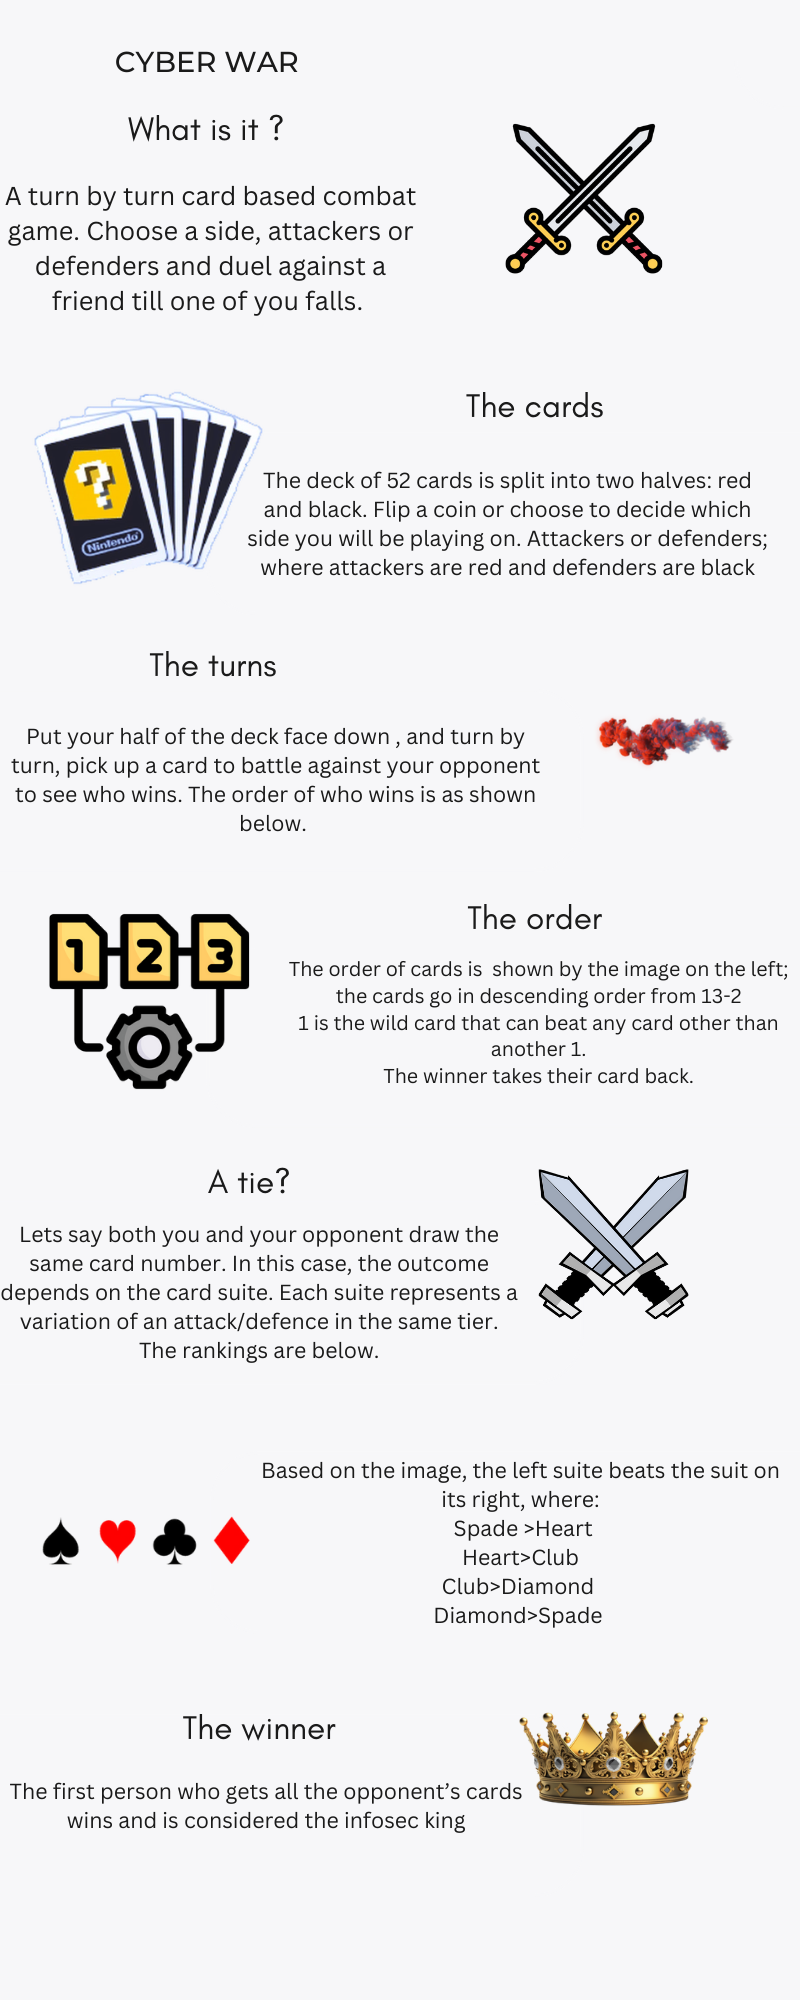
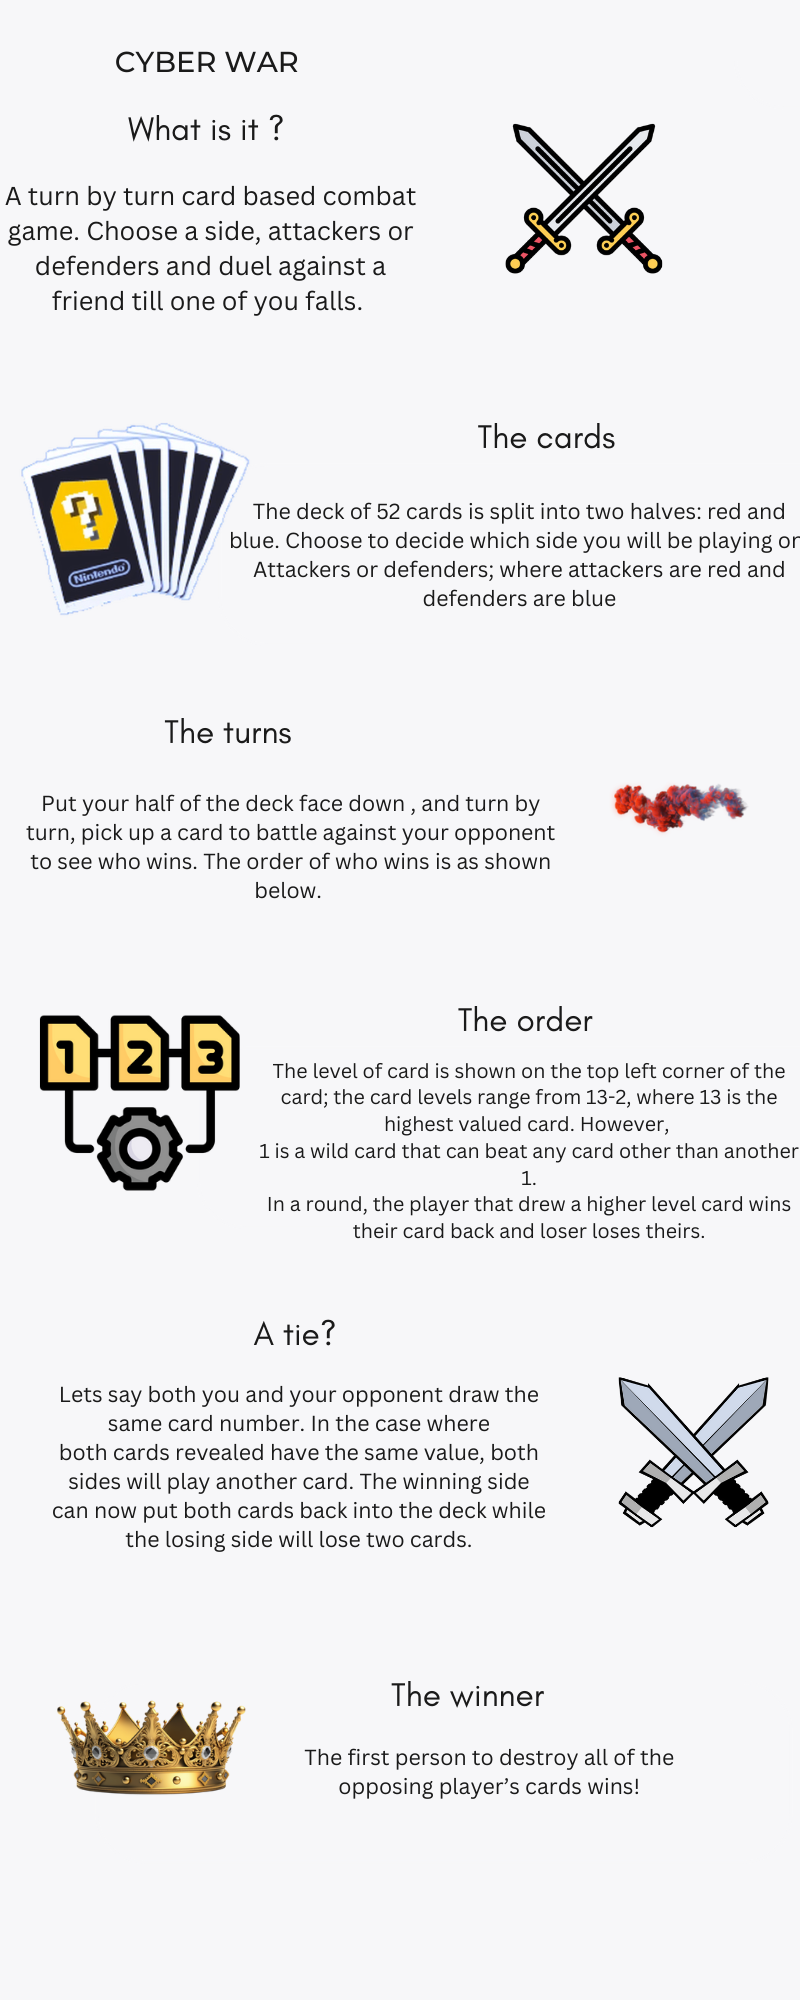
- changed game manual - fixed tie logic - added wild card logic

diff --git a/code/main.js b/code/main.js
@@ -45,8 +45,8 @@ class Deck {
     setupDeck() {
 
         if(this.type == Type.Attack){
-            this.cards.push(new Card("../card-image/1-a-nuke.jpg", 1, this.type, "Wins against all (master cyber-defender)"));
-            this.cards.push(new Card("../card-image/1-a-nuke.jpg", 1, this.type, "Wins against all (master cyber-defender)"));
+            this.cards.push(new Card("../card-image/1-a-nuke.jpg", 1, this.type, "Wins against all (master cyber-hacker)"));
+            this.cards.push(new Card("../card-image/1-a-nuke.jpg", 1, this.type, "Wins against all (master cyber-hacker)"));
             this.cards.push(new Card("../card-image/2-a-firewallbypass.jpg", 2, this.type, "Allows attackers to gain unauthorized access to a network, potentially leading to a compromised system."));
             this.cards.push(new Card("../card-image/2-a-firewallbypass.jpg", 2, this.type, "Allows attackers to gain unauthorized access to a network, potentially leading to a compromised system."));
             this.cards.push(new Card("../card-image/3-a-basicmalware.jpg", 3, this.type, "Deployment of malicious software (malware) on a target system. Eg. Creeper Virus"));
@@ -72,8 +72,8 @@ class Deck {
             this.cards.push(new Card("../card-image/13-a-ddos.jpg", 13, this.type, "Cyber attack where multiple compromised computers are used to flood a target with a high volume of traffic, overwhelming its resources and rendering it inaccessible to legitimate users"));
             this.cards.push(new Card("../card-image/13-a-webddos.jpg", 13, this.type, "In a web-based DDoS attack, the goal is to saturate the target's network or web servers with traffic, making it challenging for the website to respond to legitimate user requests. "));
         } else {
-            this.cards.push(new Card("../card-image/1-d-nuke.jpg", 1, this.type, "Wins against all (master cyber-hacker)"));
-            this.cards.push(new Card("../card-image/1-d-nuke.jpg", 1, this.type, "Wins against all (master cyber-hacker)"));
+            this.cards.push(new Card("../card-image/1-d-nuke.jpg", 1, this.type, "Wins against all (master cyber-defender)"));
+            this.cards.push(new Card("../card-image/1-d-nuke.jpg", 1, this.type, "Wins against all (master cyber-defender)"));
             this.cards.push(new Card("../card-image/2-d-firewallfort.jpg", 2, this.type, "Firewall fortification with private, secure IP addresses involves the implementation of robust network security measures. This includes the deployment of firewalls configured to control and monitor traffic between internal and external networks, the use of private IP addressing to obscure internal device identities, and the establishment of secure communication channels such as Virtual Private Networks (VPNs) to safeguard data transmission."));
             this.cards.push(new Card("../card-image/2-d-firewallsoft.jpg", 2, this.type, "Firewall software like McAfee acts as a barrier between networks, controlling incoming and outgoing traffic. It monitors and blocks unauthorized access, preventing cyber threats. With customizable rules and threat intelligence, it fortifies network security, shielding against malware, intrusions, and other potential risks, enhancing overall cybersecurity posture."));
             this.cards.push(new Card("../card-image/3-d-antivirussoftware.jpg", 3, this.type, "Antivirus software safeguards systems by detecting, blocking, and removing malware. It scans files, emails, and web traffic, identifying malicious programs. With regular updates and heuristic analysis, it provides proactive defense, preventing infections, and maintaining the integrity and security of devices and networks against diverse cyber threats."));
@@ -147,12 +147,32 @@ class Player {
     constructor(name, deck){
         this.wins = 0;
         this.type = deck.getType();
-        this.name = name;
+        if(this.type == Type.Attack){
+            this.name = "Attacker";
+        } else {
+            this.name = "Defender";
+        }
         this.played = false;
         this.deck = deck;
         this.card = null;
         this.wonDeck = [];
+        this.tiedCards = [];
     }
+
+    addTiedCard(card){
+        this.tiedCards.push(card)
+    }
+
+    clearTiedCards(){
+        this.tiedCards = [];
+    }
+
+    wonTiedCards(){
+        for (let i = 0; i < this.tiedCards.length; i ++){
+            this.addWonCard(this.tiedCards[i]);
+        }
+    }
+
     newRound(){
         this.played = false;
     }
@@ -207,8 +227,8 @@ function setup(){
     PLAYERS.push(player2);
     
     
-    document.getElementById("attack-name").innerHTML = player1.getName() + " (Attacker)";
-    document.getElementById("defense-name").innerHTML = player2.getName() + " (Defender)";
+    document.getElementById("attack-name").innerHTML = player1.getName();
+    document.getElementById("defense-name").innerHTML = player2.getName();
     document.getElementById("attack-card-count").innerHTML = "Card count: " + player1.getDeck().getSize();
     document.getElementById("defense-card-count").innerHTML = "Card count: " + player2.getDeck().getSize();
     document.getElementById("attack-cards-won-count").innerHTML = "Cards won: " + player1.getWinningDeckSize();
@@ -340,19 +360,28 @@ function checkWin(){
         let player1Card = player1.getCard();
         let player2Card = player2.getCard();
     
-        if(player1Card.getLevel() > player2Card.getLevel()) {
+        if((player1Card.getLevel() == 1 && player2Card.getLevel() != 1) || player1Card.getLevel() > player2Card.getLevel()) {
             addToLog(player1.getName() + "'s card (level " + player1Card.getLevel() + ") beat " + player2.getName() + "'s card (level " + player2Card.getLevel() + ")");
-            addToLog(player1.getName() + " wins this round and win their card back!\n");
+            let numOfCardsWon = player1.tiedCards.length + 1;
+            addToLog(player1.getName() + " wins this round and wins "+numOfCardsWon+" card(s) back!\n");
+            player1.wonTiedCards();
             player1.addWonCard(player1Card);
-            
+            player1.clearTiedCards();
+            player2.clearTiedCards();
     
-        } else if(player1Card.getLevel() < player2Card.getLevel()) {
+        } else if((player2Card.getLevel() == 1 && player1Card.getLevel() != 1) ||player1Card.getLevel() < player2Card.getLevel()) {
             addToLog(player2.getName() + "'s card (level " + player2Card.getLevel() + ") beat " + player1.getName() + "'s card (level " + player1Card.getLevel() + ")");
-            addToLog(player2.getName() + " wins this round and win their card back!\n");
+            let numOfCardsWon = player2.tiedCards.length + 1;
+            addToLog(player1.getName() + " wins this round and wins "+numOfCardsWon+" card(s) back!\n");
+            player2.wonTiedCards();
             player2.addWonCard(player2Card);
+            player1.clearTiedCards();
+            player2.clearTiedCards();
         } else {
             addToLog(player1.getName() + "'s card (level " + player1Card.getLevel() + ") is equal to " + player2.getName() + "'s card (level " + player2Card.getLevel() + ")");
             addToLog("WAR!!!");
+            player1.addTiedCard(player1Card);
+            player2.addTiedCard(player2Card);
         }
 
         if(endGame()){

diff --git a/code/typesofcards.js b/code/typesofcards.js
@@ -15,8 +15,8 @@ class Card {
 AttackCards = [];
 DefenseCards = [];
 
-AttackCards.push(new Card("../card-image/1-a-nuke.jpg", 1, "Attack", "Wins against all (master cyber-defender)"));
-AttackCards.push(new Card("../card-image/1-a-nuke.jpg", 1, "Attack", "Wins against all (master cyber-defender)"));
+AttackCards.push(new Card("../card-image/1-a-nuke.jpg", 1, "Attack", "Wins against all (master cyber-hacker)"));
+AttackCards.push(new Card("../card-image/1-a-nuke.jpg", 1, "Attack", "Wins against all (master cyber-hacker)"));
 AttackCards.push(new Card("../card-image/2-a-firewallbypass.jpg", 2, "Attack", "Allows attackers to gain unauthorized access to a network, potentially leading to a compromised system."));
 AttackCards.push(new Card("../card-image/2-a-firewallbypass.jpg", 2, "Attack", "Allows attackers to gain unauthorized access to a network, potentially leading to a compromised system."));
 AttackCards.push(new Card("../card-image/3-a-basicmalware.jpg", 3, "Attack", "Deployment of malicious software (malware) on a target system. Eg. Creeper Virus"));
@@ -42,8 +42,8 @@ AttackCards.push(new Card("../card-image/12-a-ransomware.jpg", 12, "Attack", "Ty
 AttackCards.push(new Card("../card-image/13-a-ddos.jpg", 13, "Attack", "Cyber attack where multiple compromised computers are used to flood a target with a high volume of traffic, overwhelming its resources and rendering it inaccessible to legitimate users"));
 AttackCards.push(new Card("../card-image/13-a-webddos.jpg", 13, "Attack", "In a web-based DDoS attack, the goal is to saturate the target's network or web servers with traffic, making it challenging for the website to respond to legitimate user requests. "));
 
-DefenseCards.push(new Card("../card-image/1-d-nuke.jpg", 1, "Defense", "Wins against all (master cyber-hacker)"));
-DefenseCards.push(new Card("../card-image/1-d-nuke.jpg", 1, "Defense", "Wins against all (master cyber-hacker)"));
+DefenseCards.push(new Card("../card-image/1-d-nuke.jpg", 1, "Defense", "Wins against all (master cyber-defender)"));
+DefenseCards.push(new Card("../card-image/1-d-nuke.jpg", 1, "Defense", "Wins against all (master cyber-defender)"));
 DefenseCards.push(new Card("../card-image/2-d-firewallfort.jpg", 2, "Defense", "Firewall fortification with private, secure IP addresses involves the implementation of robust network security measures. This includes the deployment of firewalls configured to control and monitor traffic between internal and external networks, the use of private IP addressing to obscure internal device identities, and the establishment of secure communication channels such as Virtual Private Networks (VPNs) to safeguard data transmission."));
 DefenseCards.push(new Card("../card-image/2-d-firewallsoft.jpg", 2, "Defense", "Firewall software like McAfee acts as a barrier between networks, controlling incoming and outgoing traffic. It monitors and blocks unauthorized access, preventing cyber threats. With customizable rules and threat intelligence, it fortifies network security, shielding against malware, intrusions, and other potential risks, enhancing overall cybersecurity posture."));
 DefenseCards.push(new Card("../card-image/3-d-antivirussoftware.jpg", 3, "Defense", "Antivirus software safeguards systems by detecting, blocking, and removing malware. It scans files, emails, and web traffic, identifying malicious programs. With regular updates and heuristic analysis, it provides proactive defense, preventing infections, and maintaining the integrity and security of devices and networks against diverse cyber threats."));
